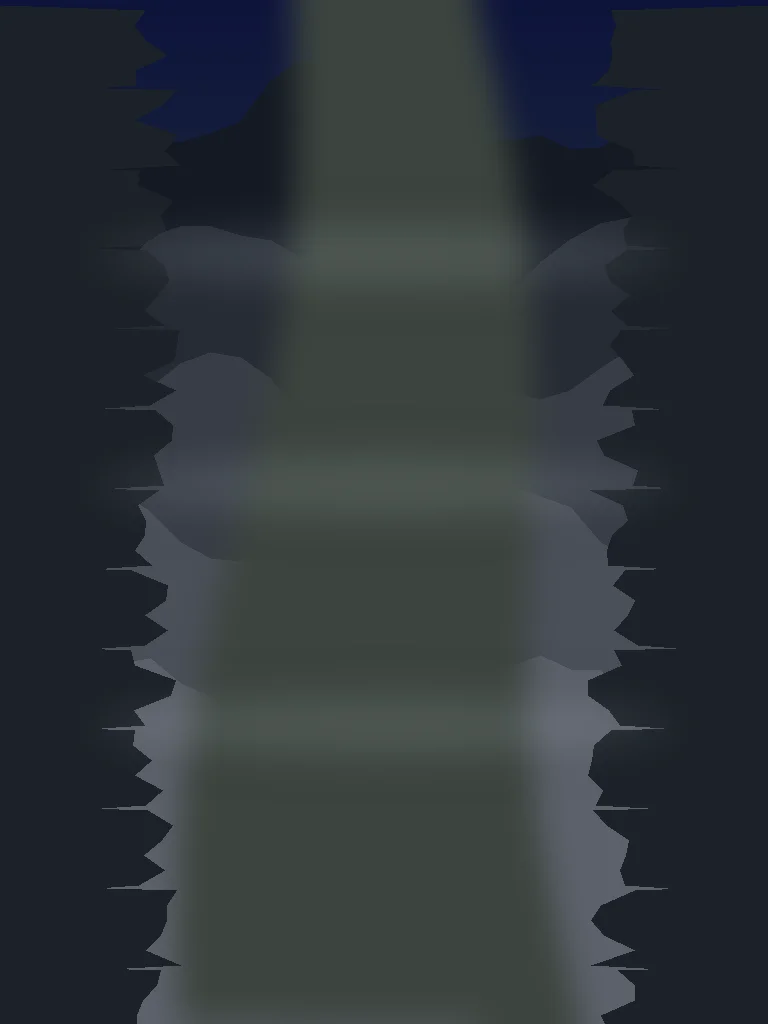
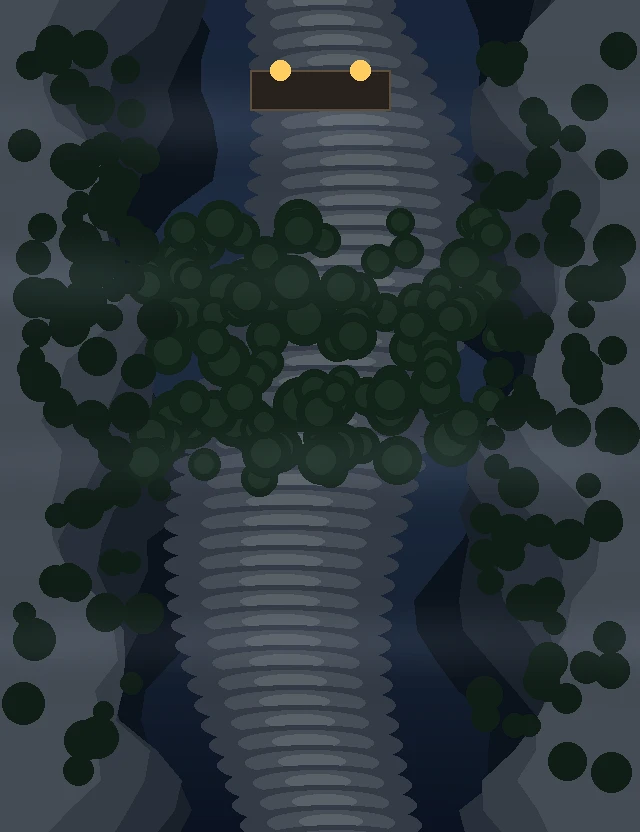
Add/update lantern-watch via orchestrator

diff --git a/projects/lantern-watch/js/app.js b/projects/lantern-watch/js/app.js
@@ -198,6 +198,8 @@ class LanternTacticsApp {
 
   openPreBattle(chapter) {
     this.activeChapter = chapter;
+    const badgeEl = document.getElementById('txtChapterBadge');
+    if (badgeEl) badgeEl.textContent = chapter.id === 7 ? '外傳' : `第${chapter.id}回`;
     if (chapter.id === 1) {
       this.selectedSquadIds = ['bear_guard', 'cat_patrol', 'lantern_crafter', 'tea_master'];
     } else {
@@ -391,6 +393,8 @@ class LanternTacticsApp {
     this.isDeploying = false;
     this.ui.hideDeployPhase();
     this.deploySlots = new Set();
+    const badgeEl = document.getElementById('txtChapterBadge');
+    if (badgeEl) badgeEl.textContent = chapter.id === 7 ? '外傳' : `第${chapter.id}回`;
 
     const squadInstances = this.selectedSquadIds.map(id => this.campaign.getUnitInstance(id));
     this.battle = new Battle(chapter, squadInstances, this.activeStratagemId, this.campaign, this.rng, {
@@ -1156,6 +1160,10 @@ class LanternTacticsApp {
 
   // ================= LIVE BOARD SPOTLIGHT TUTORIAL =================
   startTutorialFlow(startStep = 0) {
+    this.isDeploying = false;
+    this.ui.hideDeployPhase();
+    this.deploySlots = new Set();
+
     const isFromTitle = document.getElementById('screenTitle')?.classList.contains('active');
     const isFromMap = document.getElementById('screenWorldMap')?.classList.contains('active');
     const previousScreen = isFromTitle ? 'screenTitle' : (isFromMap ? 'screenWorldMap' : 'screenBattle');
@@ -1166,9 +1174,14 @@ class LanternTacticsApp {
     const savedPlacements = this.deployPlacements;
     const savedStratagem = this.activeStratagemId;
 
-    // Use a clean, isolated demo battle for tutorial steps so live battle is untouched
-    const squad = ['bear_guard', 'cat_patrol', 'lantern_crafter', 'tea_master'].map(id => this.campaign.getUnitInstance(id));
-    this.battle = new Battle(CHAPTERS[0], squad, 'inspire', this.campaign, this.rng);
+    const badgeEl = document.getElementById('txtChapterBadge');
+    if (badgeEl) badgeEl.textContent = '第1回';
+
+    // If already in live Ch1 battle, use it directly; otherwise instantiate clean Ch1 battle
+    if (!this.battle || this.battle.chapter?.id !== 1) {
+      const squad = ['bear_guard', 'cat_patrol', 'lantern_crafter', 'tea_master'].map(id => this.campaign.getUnitInstance(id));
+      this.battle = new Battle(CHAPTERS[0], squad, this.activeStratagemId || 'inspire', this.campaign, this.rng);
+    }
     this.ui.showScreen('screenBattle');
 
     const updateSpotlight = (targetEl) => {
@@ -1176,8 +1189,16 @@ class LanternTacticsApp {
       if (overlay && targetEl) {
         const r = targetEl.getBoundingClientRect();
         const or = overlay.getBoundingClientRect();
-        overlay.style.setProperty('--spotlight-x', `${r.left + r.width / 2 - or.left}px`);
-        overlay.style.setProperty('--spotlight-y', `${r.top + r.height / 2 - or.top}px`);
+        const cx = r.left + r.width / 2 - or.left;
+        const cy = r.top + r.height / 2 - or.top;
+        overlay.style.setProperty('--spotlight-x', `${cx}px`);
+        overlay.style.setProperty('--spotlight-y', `${cy}px`);
+        // If target is in lower portion of screen (rows >= 7), park card at top so unit and movement tiles remain bright and visible
+        if (cy > or.height * 0.45) {
+          overlay.classList.add('card-at-top');
+        } else {
+          overlay.classList.remove('card-at-top');
+        }
       }
     };
 
@@ -1361,6 +1382,8 @@ class LanternTacticsApp {
       localStorage.setItem(tutKey, '1');
       localStorage.setItem('lt_tutorial_seen', '1');
       document.querySelectorAll('.spotlight-active').forEach(el => el.classList.remove('spotlight-active'));
+      const overlay = document.getElementById('tutorialBoardOverlay');
+      if (overlay) overlay.classList.remove('card-at-top');
       this.clearSelection();
       this.ui.hideActionMenu();
       this.ui.hideTargetPreview();
@@ -1370,9 +1393,7 @@ class LanternTacticsApp {
         this.battle = savedBattle;
         this.ui.showScreen(previousScreen);
       } else {
-        // Restore player's live battle cleanly from saved deploy placements
-        this.activeStratagemId = savedStratagem;
-        this.launchBattleInstance(savedChapter, savedPlacements);
+        this.refreshBattleUI();
       }
     }, handleSuggest);
   }
@@ -1392,6 +1413,8 @@ class LanternTacticsApp {
       },
       openDeployPhase: (chId = 1) => {
         const ch = CHAPTERS.find(c => c.id === chId) || CHAPTERS[0];
+        const badgeEl = document.getElementById('txtChapterBadge');
+        if (badgeEl) badgeEl.textContent = ch.id === 7 ? '外傳' : `第${ch.id}回`;
         if (ch.id === 1) {
           this.selectedSquadIds = ['bear_guard', 'cat_patrol', 'lantern_crafter', 'tea_master'];
         } else {

diff --git a/projects/lantern-watch/js/render/ui.js b/projects/lantern-watch/js/render/ui.js
@@ -77,17 +77,11 @@ export class UIRenderer {
     const vpWidth = vp.clientWidth || 390;
     const vpHeight = vp.clientHeight || 520;
 
-    const maxScrollX = Math.max(0, 704 - vpWidth);
-    const maxScrollY = Math.max(0, 940 - vpHeight);
+    const maxScrollX = Math.max(0, 640 - vpWidth);
+    const maxScrollY = Math.max(0, 832 - vpHeight);
 
     let scrollX = targetX - vpWidth / 2;
     let scrollY = targetY - vpHeight / 2;
-
-    // Right-edge protection: when focusing on units in middle/right columns (x >= 4),
-    // ensure rightmost units (up to col 7/8 + 48px margin) stay fully inside the viewport
-    if (x >= 4) {
-      scrollX = Math.max(scrollX, 160);
-    }
 
     // Bottom safe inset & Grokbot clearance:
     // When unit is near bottom (y >= 9), scroll down so unit's feet stay >=64px above viewport bottom
@@ -208,6 +202,9 @@ export class UIRenderer {
 
   // ================= PRE-BATTLE RENDERING =================
   renderPreBattle(chapter, campaign, selectedSquadIds, activeStratagemId, handlers) {
+    const badgeEl = document.getElementById('txtChapterBadge');
+    if (badgeEl) badgeEl.textContent = chapter.id === 7 ? '外傳' : `第${chapter.id}回`;
+
     // Painted Chapter Banner
     const bannerArt = document.getElementById('preBannerArt');
     if (bannerArt) {
@@ -355,6 +352,9 @@ export class UIRenderer {
 
   // ================= BATTLE BOARD RENDERING =================
   renderBattle(battle, handlers) {
+    const badgeEl = document.getElementById('txtChapterBadge');
+    if (badgeEl) badgeEl.textContent = battle.chapter.id === 7 ? '外傳' : `第${battle.chapter.id}回`;
+
     // Top HUD
     document.getElementById('hudTurnBadge').textContent = `第 ${battle.currentTurn} / ${battle.chapter.maxTurns} 回合`;
     const phasePill = document.getElementById('hudPhasePill');
@@ -1133,7 +1133,7 @@ export class UIRenderer {
     document.getElementById('prevDefenderPor').src = `assets/art/v4/por_${defender.id}.webp`;
     document.getElementById('prevDefenderName').textContent = defender.name;
     if (canCounter) {
-      document.getElementById('prevCounterVal').textContent = `反擊: ${counterDamage} 傷害`;
+      document.getElementById('prevCounterVal').textContent = `反擊 ${counterDamage}`;
       document.getElementById('prevDefenderRates').textContent = `反擊命中 ${counterHitRate}%`;
     } else {
       document.getElementById('prevCounterVal').textContent = '無反擊';
@@ -1317,6 +1317,9 @@ export class UIRenderer {
   }
 
   renderDeployPhase(chapter, squadUnits, deployTiles, placedMap, onSelectSquadUnit, onConfirmDeploy) {
+    const badgeEl = document.getElementById('txtChapterBadge');
+    if (badgeEl) badgeEl.textContent = chapter.id === 7 ? '外傳' : `第${chapter.id}回`;
+
     const tray = document.getElementById('deployTrayBar');
     if (!tray) return;
 

diff --git a/projects/lantern-watch/css/style.css b/projects/lantern-watch/css/style.css
@@ -1020,7 +1020,7 @@ html, body {
   touch-action: pan-x pan-y;
   -webkit-overflow-scrolling: touch;
   cursor: grab;
-  background: #000;
+  background: #101424;
 }
 
 .battle-viewport:active {
@@ -1041,9 +1041,8 @@ html, body {
   top: 0;
   left: 0;
   width: 640px;
-  min-height: 832px;
-  height: 100%;
-  object-fit: cover;
+  height: 832px;
+  object-fit: fill;
   z-index: 1;
   pointer-events: none;
 }
@@ -2002,6 +2001,7 @@ html, body {
   font-weight: 700;
   color: #FBBF24;
   line-height: 1.2;
+  white-space: nowrap;
 }
 
 .forecast-rates {
@@ -2741,7 +2741,12 @@ html, body {
   flex-direction: column;
   justify-content: flex-end;
   padding: 16px 16px calc(64px + env(safe-area-inset-bottom, 12px));
-  transition: background 0.25s ease;
+  transition: background 0.25s ease, padding 0.2s ease;
+}
+
+.tutorial-board-overlay.card-at-top {
+  justify-content: flex-start;
+  padding-top: calc(96px + env(safe-area-inset-top, 0px));
 }
 
 .tutorial-board-card {
@@ -3897,9 +3902,9 @@ html, body {
 
 /* ---------- Manual targeting ---------- */
 .target-hint-bar {
-  position: absolute; top: calc(env(safe-area-inset-top, 0px) + 58px); left: 50%; transform: translateX(-50%);
+  position: absolute; top: calc(env(safe-area-inset-top, 0px) + 104px); left: 50%; transform: translateX(-50%);
   z-index: 56; display: flex; align-items: center; gap: 10px;
-  background: rgba(14, 18, 44, 0.9); border: 1px solid var(--lantern-gold); border-radius: 999px;
+  background: rgba(14, 18, 44, 0.96); border: 1px solid var(--lantern-gold); border-radius: 999px;
   padding: 5px 6px 5px 14px; font-family: var(--font-serif); font-size: 13px; color: #F5E6C8;
   box-shadow: 0 4px 14px rgba(0,0,0,.6); white-space: nowrap; max-width: calc(100% - 24px);
 }

diff --git a/projects/lantern-watch/CHANGELOG.md b/projects/lantern-watch/CHANGELOG.md
@@ -1,5 +1,28 @@
 # Changelog
 
+## Round 1 fixes
+
+### MAJOR Fixes
+- **MAJOR #1: Tutorial Beat 1 Spotlight & Card Positioning**:
+  - `startTutorialFlow` now calls `this.ui.hideDeployPhase()` immediately upon opening, completely removing the deploy tray underneath.
+  - Tutorial overlay dynamically shifts `.tutorial-board-card` to the top (`.tutorial-board-overlay.card-at-top`, below `.battle-hud-top`) whenever the highlighted target is in the lower half of the screen (row ≥ 7), ensuring 熊岳 at `(1, 11)` and its blue movement tiles remain fully bright, visible, and unobscured in the 140px spotlight cutout.
+  - Live Chapter 1 battle is preserved and directly driven rather than discarded and re-instantiated.
+- **MAJOR #2: Chapter 8 390px Viewport Framing, Top Nav Badge & Painted Background**:
+  - Top navigation pill `#txtChapterBadge` dynamically displays `第${chapter.id}回` (and `外傳` for Ch7) across `renderBattle`, `renderPreBattle`, and `renderDeployPhase`, updating to **★ 第8回** for Chapter 8.
+  - Removed artificial 160px right scroll bias from `centerCameraOn`, allowing natural horizontal centering on the mountain pass road at (4, 4).
+  - Pinned `.battle-map-bg` to 640×832px with `object-fit: fill; height: 832px` to prevent distortion/cover-cropping against the stage.
+  - Repainted ink-wash mountain pass background `assets/art/v4/map_mountain_pass.webp` (640×832) with rich multi-layered ink crags, mountain pines, and stone road textures, completely eliminating pure black silhouettes or empty void.
+- **MAJOR #3: Target Hint Bar HUD Safe Clearance**:
+  - Adjusted `.target-hint-bar` top position to `calc(env(safe-area-inset-top, 0px) + 104px)` so it floats directly below `.battle-hud-top`, leaving the dual morale gauge (我軍 100 / 敵軍 100) completely visible and unobstructed during targeting.
+
+### MINOR Fixes
+- **MINOR #4: Forecast Counter Text Wrapping**:
+  - Added `white-space: nowrap` to `.forecast-counter` and formatted counter text as `反擊 ${counterDamage}`, preventing line wrapping ("1 傷 / 害").
+- **MINOR #5: SPEC Alignment**:
+  - Updated `SPEC.md` §7 (added `shield_phalanx` and `mountain_warlord`), §8 (8 total battles, `rolling_log` stratagem, Morale system), §9 (Chapter 8 pass encounter row and squad limits), §10 (shield phalanx & morale rout AI), and §11 (encounter sim validation across 8 battles).
+
+---
+
 ## v10.1.0 — 第一章連貫性修復、士氣潰逃系統、第8章山道伏兵與數值深度校準 (Round 7 / v10 Polish)
 
 ### 第一章連貫性與教學聚光修復 (Chapter 1 Coherence & Spotlight)
